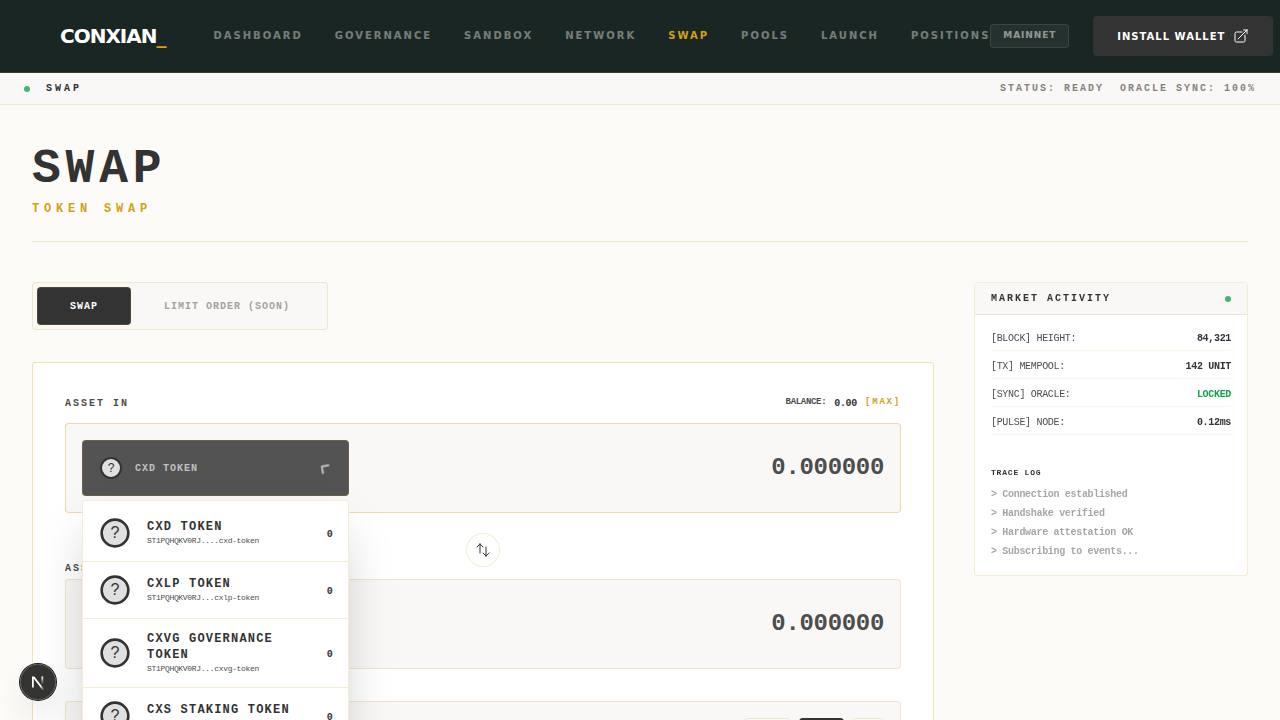
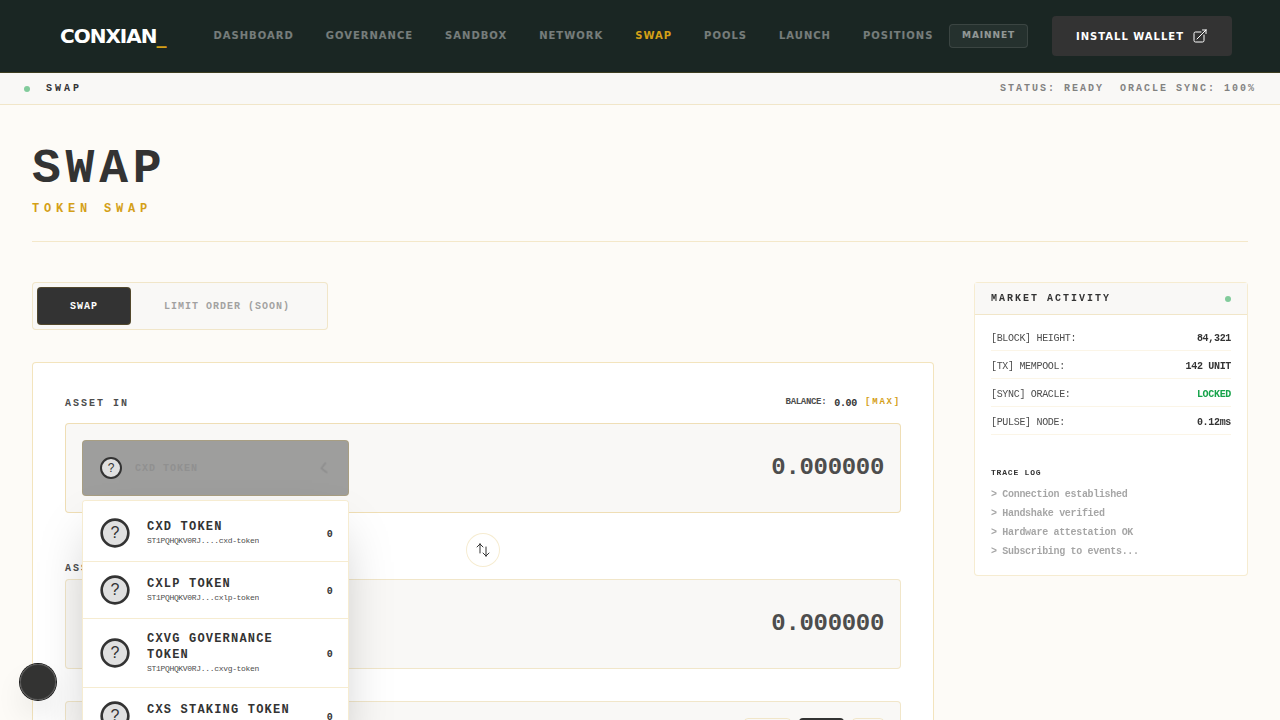
docs: codify global UI/UX standardization and FRONTEND_PRD
- Create FRONTEND_PRD.md detailing the 60-30-10 Bright Foundation layout.
- Map the global CSS styling to reference the new PRD.
- Register FRONTEND_PRD.md in DOCUMENTATION_ALIGNMENT_INDEX.md.
- Confirm visual and build alignment with successful test and build execution.

Changed region(s): [[0.1562, 0.0, 1.0, 0.0917], [0.0625, 0.6111, 0.2812, 0.7028]]

diff --git a/src/app/globals.css b/src/app/globals.css
@@ -1,5 +1,10 @@
 @import "tailwindcss";
 
+/*
+ * CONXIAN GLOBAL BRAND STANDARDS
+ * Managed via docs/FRONTEND_PRD.md - Enforcing the 60-30-10 Bright Foundation.
+ */
+
 :root {
   /* MASTER MANIFEST PALETTE - BRIGHT FOUNDATION */
   /* Base Canvas (60%) */

diff --git a/docs/FRONTEND_PRD.md b/docs/FRONTEND_PRD.md
@@ -1,0 +1,88 @@
+# Conxian Frontend Product Requirement Document (PRD)
+
+## 1. Executive Summary & Identity
+
+- **Identity**: `cxn-arch-guardian`
+- **Target**: Global UI/UX Standardization across Conxian Protocol, Conxius Wallet, and Gateway.
+- **Ethos**: Sovereign Earthy, BTC-native, Institutional-Grade (Morgan Stanley / BlackRock logic applied to decentralized infrastructure). High-trust, high-legibility.
+
+The Conxian UI serves as the high-integrity user-facing layer for decentralized Bitcoin financial systems. This document outlines the permanent visual standards, structural layouts, and component-level specifications required to maintain our high-contrast, low-fatigue, institutional-grade product experience.
+
+---
+
+## 2. Mandatory UI Architecture (The Bright Foundation)
+
+The UI utilizes a spacious, bright, and low-fatigue Canvas designed for prolonged operational focus. All legacy default dark mode backgrounds must remain purged from main operational workspaces.
+
+### 2.1 The 60-30-10 Palette
+
+The interface is strictly mapped to the 60-30-10 Ivory-led palette:
+
+1. **Base Canvas (60%)**: Enforce an "Ivory" or warm off-white foundation for all primary backgrounds and operational zones.
+   - Hex value: `#FDFBF7`
+   - Tailwind/CSS variable: `var(--color-background)` / `bg-background`
+2. **Surface Layers (30%)**: Use pure white or subtle contrasting light tones for cards, modals, and internal telemetry feeds. Depth is established through structural layout, spacing, and micro-borders rather than heavy shadows.
+   - Pure White: `#FFFFFF` / `var(--color-background-paper)` / `bg-background-paper`
+   - Neutral Light (Tonal shift): `#F9F8F6` / `var(--color-neutral-light)` / `bg-neutral-light`
+   - Surface Dim: `#F2F0ED` / `var(--color-surface-dim)` / `bg-surface-dim`
+3. **Brand & Interaction (10%)**: Reserve deep earthy greens/blacks strictly for high-visibility typography, active toggles, and primary call-to-action buttons.
+   - Primary/Ink: `#333333` / `var(--color-ink)` / `text-ink`
+   - Ink Light (Secondary contrast): `#4D4D4D` / `var(--color-ink-light)` / `text-ink-light`
+   - Ink Deep (Dark Brand Accent): `#1A2623` / `var(--color-ink-deep)` / `text-ink-deep`
+   - Gold Accent: `#D4A017` / `var(--color-accent)` / `text-accent` / `border-accent/20`
+
+---
+
+## 3. Structural Blocking & Layout Rules
+
+### 3.1 Entry Zones
+- **Branding Baseline**: The sticky top navigation bar (`Header.tsx`) and initial marketing landing headers may utilize full-width dark brand colors (`bg-ink-deep`) to establish immediate brand presence and anchor the user's visual journey.
+
+### 3.2 Operational Workspaces
+- The moment a user enters any workspace (Yield tracking, Governance, Sandbox, Real-time SCADA telemetry, Pools, Token Swap, Asset Portfolio), the background **must snap** to the bright Ivory base (`#FDFBF7`).
+- Operational views must wrap content in the standard layout container:
+  ```tsx
+  <div className="flex flex-col min-h-screen bg-background terminal-text">
+  ```
+- Operational content must live inside a centralized `max-w-7xl` container:
+  ```tsx
+  <main className="flex-1 p-8 max-w-7xl mx-auto w-full space-y-10">
+  ```
+
+---
+
+## 4. Accessibility & Data Legibility (WCAG AAA)
+
+### 4.1 Strict Contrast
+- Financial statistics, yields, and analytical labels must maintain a high contrast ratio (~12:1) against light Ivory surfaces.
+- Primary text is `#333333` (`text-ink`).
+- Secondary/de-emphasized labels are `#4D4D4D` (`text-ink-light`). Opacity-based opacity-muted text (e.g. `text-ink/40`) is deprecated on Ivory surfaces to avoid visual fatigue and screen reader failure.
+
+### 4.2 Tabular Typography
+- To prevent alignment shifting and layout jitter, all financial balances, numbers, prices, and tickers **must** enforce tabular-nums formatting:
+  ```tsx
+  <span className="tabular-nums font-mono">1,234.56 STX</span>
+  ```
+- Operational headers and section labels must utilize bold uppercase styling with a letter-spacing tracker (`uppercase tracking-widest` or `tracking-[0.2em]`) to achieve an authoritative, SCADA-like terminal aesthetic.
+
+---
+
+## 5. UI Components & Interaction Feedback
+
+All custom or page-level designs must utilize or extend the canonical components:
+
+1. **Buttons (`Button.tsx`)**: Primary actions use `rounded-sm`, bold text, and a distinct letter-spacing format (`uppercase tracking-[0.2em]`).
+2. **Inputs (`Input.tsx`)**: High-contrast input boxes with a focus state highlighting the container border (`focus-within:border-accent/40`) to maintain focus without heavy glows.
+3. **Cards (`Card.tsx` / `machined-card`)**: Built on the bright surface paper background (`#FFFFFF`), bounded by a subtle gold-tinted micro-border (`border-accent/20` or `border-ghost`) and a structured, uppercase terminal header (`machined-header`).
+4. **Interactive Drops & Modals**: Must provide immediate, screen-reader friendly `aria-label` tags (e.g., `"Select input token"`) to uphold accessibility standards.
+5. **Async Loading State**: Primary action buttons that fetch, write, or transmit transactions to the blockchain must visually communicate transition state. They must feature a spinning `ArrowPathIcon` with `gap-3`, combined with `aria-busy="true"` and an informative `aria-label`.
+
+---
+
+## 6. Execution & Verification Routine
+
+To prevent design token drift, any modification to files in the repository must be run against:
+1. `npx eslint .` to ensure compliance with TypeScript and React standards.
+2. `pnpm test:run` for business logic and component unit verification.
+3. `pnpm build` for compilation integrity.
+4. Playwright visual regression checking (`pnpm exec playwright test`).

diff --git a/docs/DOCUMENTATION_ALIGNMENT_INDEX.md b/docs/DOCUMENTATION_ALIGNMENT_INDEX.md
@@ -9,6 +9,7 @@ This index tracks the alignment of Conxian documentation across the repository a
 - [CONTRIBUTING.md](CONTRIBUTING.md) - Contribution guidelines.
 
 ## Standards and Matrices
+- [FRONTEND_PRD.md](docs/FRONTEND_PRD.md) - Global UI/UX standardization and Bright Foundation PRD.
 - [UI_NAMING_STANDARDIZATION_MATRIX.md](docs/UI_NAMING_STANDARDIZATION_MATRIX.md) - UI terminology standards.
 
 ## Research and OpenSpec
